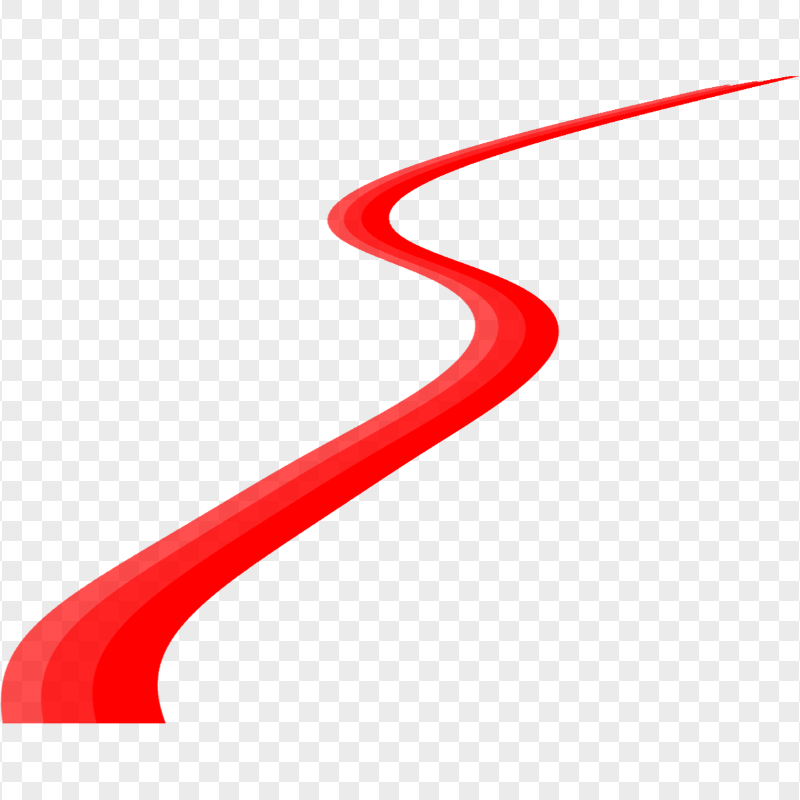
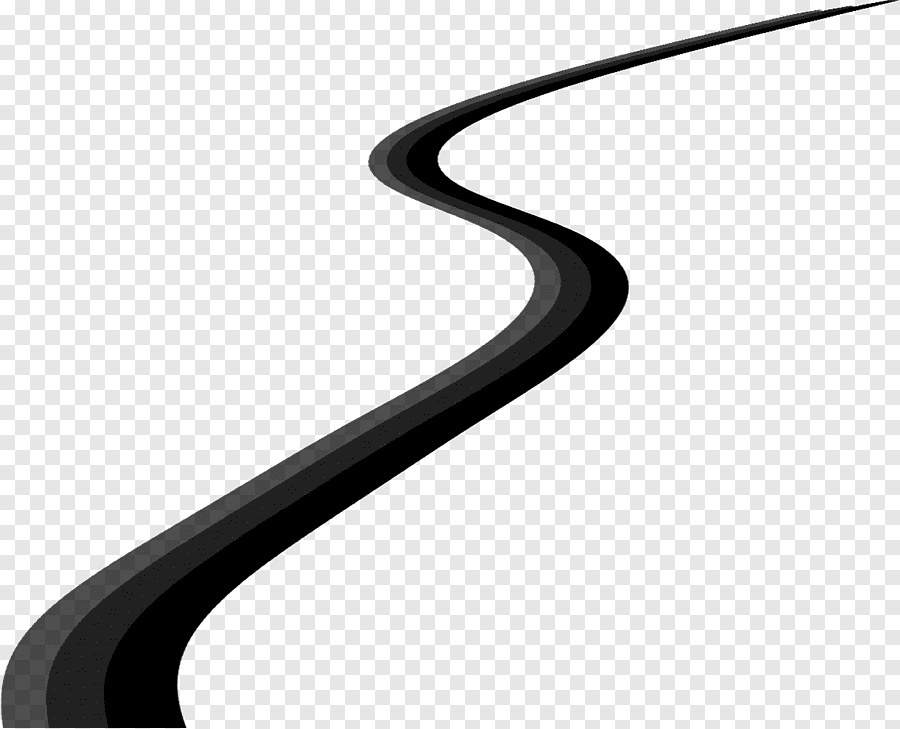
Route definiton buttons are created

diff --git a/TransportTycoon/TransportTycoon.WPF/View/UserControls/LeftPanel.xaml b/TransportTycoon/TransportTycoon.WPF/View/UserControls/LeftPanel.xaml
@@ -168,8 +168,38 @@
                 </TabItem>
 
                 <TabItem>
+                    <TabItem.Background>
+                        <ImageBrush ImageSource="/Assets/Images/Buttons/route.png" Stretch="UniformToFill"/>
+                    </TabItem.Background>
                     <WrapPanel Margin="15" HorizontalAlignment="Center">
-                        <Button Width="50" Height="50" Margin="8"/>
+                        <Button Width="50" Height="50"
+                                Margin="8"
+                                Command="{Binding SetSelectedButtonCommand}"
+                                CommandParameter="31"
+                                >
+                            <Image Source="/Assets/Images/Buttons/route.png" Stretch="UniformToFill"/>
+                        </Button>
+                        <Button Width="50" Height="50"
+                                Margin="8"
+                                Command="{Binding SetSelectedButtonCommand}"
+                                CommandParameter="32"
+                                >
+                            <Image Source="/Assets/Images/Buttons/pull.png" Stretch="Uniform"/>
+                        </Button>
+                        <Button Width="50" Height="50"
+                                Margin="8"
+                                Command="{Binding SetSelectedButtonCommand}"
+                                CommandParameter="33"
+                                >
+                            <Image Source="/Assets/Images/Buttons/push.png" Stretch="Uniform"/>
+                        </Button>
+                        <Button Width="50" Height="50"
+                                Margin="8"
+                                Command="{Binding SetSelectedButtonCommand}"
+                                CommandParameter="34"
+                                >
+                            <Image Source="/Assets/Images/Buttons/x.png" Stretch="Uniform"/>
+                        </Button>
                     </WrapPanel>
                 </TabItem>
             </TabControl>

diff --git a/TransportTycoon/TransportTycoon.WPF/ViewModel/GameViewModel.cs b/TransportTycoon/TransportTycoon.WPF/ViewModel/GameViewModel.cs
@@ -224,6 +224,17 @@ namespace TransportTycoon.WPF.ViewModel
                     {
                         Vehicles.Add(new VehicleViewModel(vehicle2));
                     }
+                    break;
+                case 31:
+
+                    break;
+                case 32:
+
+                    break;
+                case 33:
+
+                    break;
+                case 34:
 
                     break;
                 default: